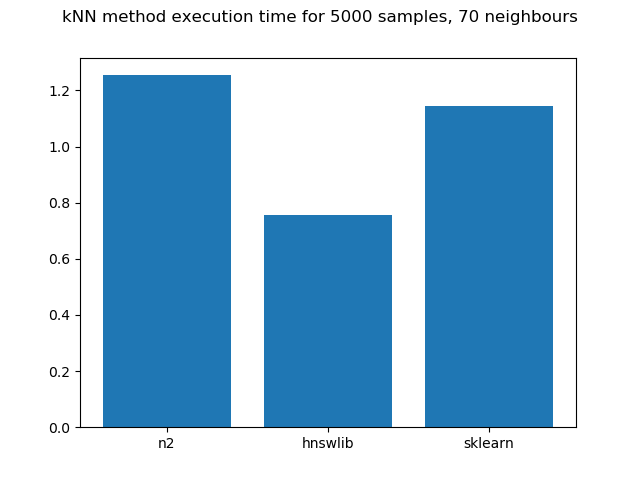
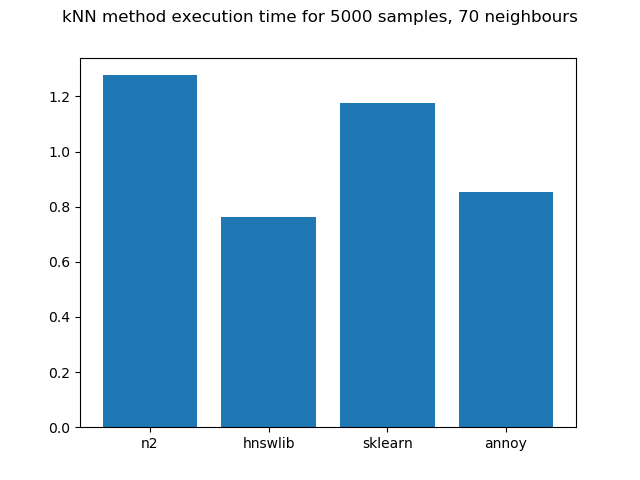
Added annoy and faiss. Faiss not working outside of conda yet

diff --git a/knn_methods/annoy_knn.py b/knn_methods/annoy_knn.py
@@ -1,0 +1,16 @@
+import numpy as np
+import annoy
+from statistics import mean
+from typing import List
+
+
+def kNN(matrix: np.ndarray, k: int) -> List[float]:
+    index = annoy.AnnoyIndex(matrix.shape[1], "euclidean")
+    for i, item in enumerate(matrix):
+        index.add_item(i, matrix[i])
+    index.build(20)
+    distances = []
+    for i in range(matrix.shape[0]):
+        distances.append(index.get_nns_by_item(i, k, include_distances=True)[1])
+    result = np.sort(list(mean(dist) for dist in distances))
+    return result

diff --git a/kNN_test.py b/kNN_test.py
@@ -142,7 +142,7 @@ def run_benchmarks(filename: str, sample_sizes: List[int], k: Optional[int] = No
 
 
 if __name__ == "__main__":
-    results = run_benchmarks("../datasets/error_logs_test.csv", [1000, 5000, 10000, 40000], k=None)
+    results = run_benchmarks("../datasets/error_logs_test.csv", [1000, 5000, 10000, 20000, 40000], k=None)
     for sample_size, benchmark_times in results.items():
         print(f"{sample_size} samples:")
         for algo_name, algo_time in benchmark_times.items():

diff --git a/knn_methods/__init__.py b/knn_methods/__init__.py
@@ -1,9 +1,13 @@
 from . import n2_knn
 from . import hnswlib_knn
 from . import sklearn_knn
+from . import annoy_knn
+# from . import faiss_knn
 
 method_list = {
     "n2": n2_knn.kNN,
     "hnswlib": hnswlib_knn.kNN,
-    "sklearn": sklearn_knn.kNN
+    "sklearn": sklearn_knn.kNN,
+    "annoy": annoy_knn.kNN,
+    # "faiss": faiss_knn.kNN  # ! Only works in conda at the moment. Results between annoy and hnswlib
 }

diff --git a/knn_methods/faiss_knn.py b/knn_methods/faiss_knn.py
@@ -1,0 +1,12 @@
+import numpy as np
+import faiss
+from statistics import mean
+from typing import List
+
+
+def kNN(matrix: np.ndarray, k: int) -> List[float]:
+    index = faiss.IndexFlatL2(matrix.shape[1])
+    index.add(matrix)
+    distances, _ = index.search(matrix, k)
+    result = np.sort(list(mean(np.sqrt(dist)) for dist in distances))
+    return result
